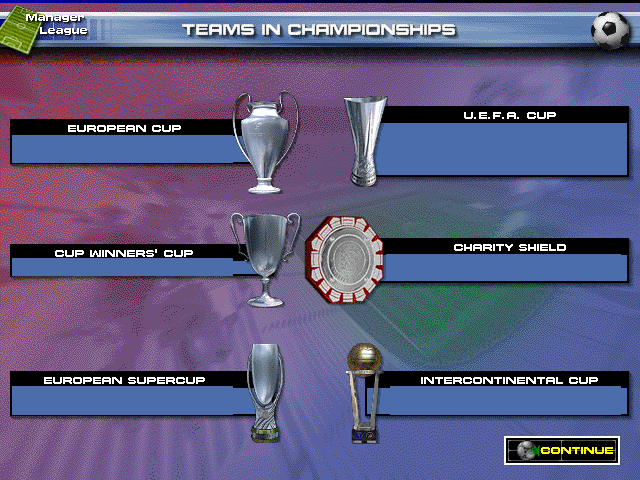
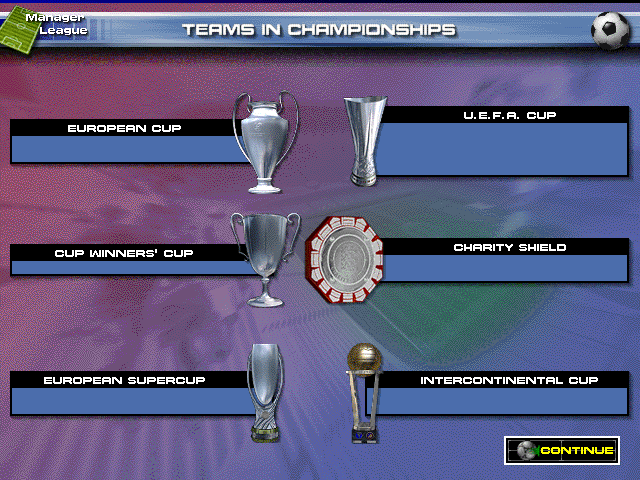
Season-entry chain VERIFIED live + pixel-true vs orig frames (charter #4 done)
Live end-to-end walk (fresh Bolton career, DISPLAY=:1): MANAGER LEAGUE ->
TOTAL -> name/kit -> preseason (0 picks) -> TEAMS IN CHAMPIONSHIPS ->
CHARITY SHIELD card -> START OF SEASON (3 tabs) -> hub. Session 8's stall
was a click-coord slip, not a wiring bug (SeasonStart CONTINUE rect y438).

Pixel-nudge vs orig/06 + 70 + 71 (all live-text zones now 0px; residuals =
the frames' baked cursor, data-driven content, flagged approximations):
- ChampsScreen: proman14@15 -> proman10@10 (orig ink widths match exactly);
  all six panel baselines -1; EC display order = runners-up above champions
  (frame truth, Main._champs_entries reverse).
- Chrome bake: panel blanks shrunk to interiors so the bands' 1px gradient
  edge rows stay baked; season TEAM blank starts x54 preserving the white
  position block x46-53 (row chrome on every row incl. the user row).
- CharityShieldScreen: club lines proman12@13, manager lines proman8@11
  (Ferguson 54px / Vialli 26px match); baselines 163/178/286/303. Shield
  result is sim-driven (winner varies per career) - layout verified on both.
- SeasonStartScreen: rows proman12@13 -> proman8@11; title emboss = layered
  proman12 strikes approximating the un-extracted beveled division-name face
  (flagged); cell centring decoded: x0 + (cell_w - (advance-1))/2 integer
  (fits every witnessed MANAGER + OBJECTIVE label); user row inks: TEAM
  white + MANAGER pale like normal rows, only OBJECTIVE pales; title base -1.
[…]

Changed region(s): [[0.0312, 0.5312, 0.375, 0.5938], [0.625, 0.7812, 0.9688, 0.8125], [0.0312, 0.7812, 0.3438, 0.8125]]

diff --git a/tools/re/build_seasonflow_chrome_from_frames.py b/tools/re/build_seasonflow_chrome_from_frames.py
@@ -52,21 +52,24 @@ W, H = 640, 480
 CHAMPS_FILL = (75, 109, 172)
 # panel body blanks (x0, y0, x1, y1) -- measured off frame 06 (probe session 2026-07-17)
 CHAMPS_BLANKS = [
-    (12, 135, 233, 163),  # EUROPEAN CUP body (trophy pixels start x236)
+    # Interiors only: the band's 1px gradient edge rows stay baked (live-diff
+    # probe 2026-07-17: blanking them flat cost 442-1105 px/panel vs orig/06).
+    (12, 136, 233, 162),  # EUROPEAN CUP body (trophy pixels start x236)
     (390, 124, 621, 173),  # U.E.F.A. CUP body
-    (12, 258, 233, 276),  # CUP WINNERS' CUP body
-    (386, 254, 621, 281),  # CHARITY SHIELD body (shield art ends x382)
-    (12, 386, 233, 415),  # EUROPEAN SUPERCUP body
-    (390, 386, 621, 415),  # INTERCONTINENTAL CUP body
+    (12, 261, 233, 274),  # CUP WINNERS' CUP body
+    (386, 255, 621, 281),  # CHARITY SHIELD body (shield art ends x382)
+    (12, 388, 233, 414),  # EUROPEAN SUPERCUP body
+    (390, 388, 621, 414),  # INTERCONTINENTAL CUP body
 ]
-# live-draw anchors: [panel key, club_x, mgr_x, [row baselines]]
+# live-draw anchors: [panel key, club_x, mgr_x, [row baselines]] -- proman10@10,
+# baselines re-measured against the live render 2026-07-17 (all six panels 0px)
 CHAMPS_ANCHORS = [
-    ["european_cup", 20, 160, [146, 159]],
-    ["uefa_cup", 392, 532, [133, 146, 159, 172]],
-    ["cup_winners_cup", 20, 160, [271]],
-    ["charity_shield", 392, 532, [265, 278]],
-    ["supercup", 20, 160, [398, 411]],
-    ["intercontinental", 392, 532, [398, 411]],
+    ["european_cup", 20, 160, [145, 158]],
+    ["uefa_cup", 392, 532, [132, 145, 158, 171]],
+    ["cup_winners_cup", 20, 160, [270]],
+    ["charity_shield", 392, 532, [264, 277]],
+    ["supercup", 20, 160, [397, 410]],
+    ["intercontinental", 392, 532, [397, 410]],
 ]
 
 # CHARITY SHIELD card: dynamic zones restored with the card's own texture. The
@@ -85,15 +88,17 @@ SHIELD_ZONES = [
     ((60, 240, 140, 340), (335, 420)),  # runner-up kit box
     ((140, 267, 340, 320), (335, 420)),  # runner-up club + manager (label ends y265)
 ]
+# club lines proman12@13, manager lines proman8@11 (widths matched to frame 70:
+# Ferguson 54px, Vialli 26px); baselines re-measured against the live render.
 SHIELD_ANCHORS = {
     "kit_winner": [70, 112, 60, 84],  # x, y, w, h boxes for PMChrome.draw_crest
     "kit_runner": [70, 244, 60, 84],
     "winner_x": 147,
     "winner_base": 163,
-    "winner_mgr_base": 180,
+    "winner_mgr_base": 178,
     "runner_x": 147,
-    "runner_base": 299,
-    "runner_mgr_base": 316,
+    "runner_base": 286,
+    "runner_mgr_base": 303,
 }
 
 # START OF SEASON (PREMIER frame): table x44..483. The DIVISION NAME sits white
@@ -110,7 +115,9 @@ SEASON_ROW_Y0 = 106
 SEASON_PITCH = 16
 SEASON_BAND_H = 12
 SEASON_CELLS = [
-    ((46, 201), (0, 0, 128)),
+    # TEAM blank starts x54: the white position block x46..53 is row chrome
+    # shared by every row incl. the user row (live-diff probe 2026-07-17).
+    ((54, 201), (0, 0, 128)),
     ((202, 341), (42, 63, 170)),
     ((343, 476), (166, 202, 240)),
 ]
